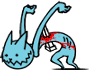
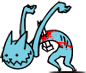
zombie

diff --git a/src/Cat.cpp b/src/Cat.cpp
@@ -306,8 +306,12 @@ void Cat::LoadResource() {
         m_Anime = CatAnime::Tricycle();
         break;
 
-    case CatType::NINJA:
+    case CatType::NINJA_CAT:
         m_Anime = CatAnime::Ninja();
+        break;
+
+    case CatType::ZOMBIE_CAT:
+        m_Anime = CatAnime::Zombie();
         break;
 
     default:
@@ -963,7 +967,7 @@ void CatAnimeResource::Init() {
     }
 
     {
-        auto &ninja = s_anime[static_cast<size_t>(CatType::NINJA)];
+        auto &ninja = s_anime[static_cast<size_t>(CatType::NINJA_CAT)];
 
         ninja.idle = std::make_unique<SharedRc::Animation>(
             std::initializer_list<std::string>{
@@ -994,6 +998,47 @@ void CatAnimeResource::Init() {
         ninja.knockback = std::make_unique<SharedRc::Animation>(
             std::initializer_list<std::string>{
                 RESOURCE_DIR "/cats/018/Animation/hitback.png"});
+    }
+
+    {
+        auto &zombie = s_anime[static_cast<size_t>(CatType::ZOMBIE_CAT)];
+
+        zombie.idle = std::make_unique<SharedRc::Animation>(
+            std::initializer_list<std::string>{
+                RESOURCE_DIR "/cats/019/Animation/idle.png",
+            });
+
+        zombie.walk = std::make_unique<SharedRc::Animation>(
+            std::initializer_list<std::string>{
+                RESOURCE_DIR "/cats/019/Animation/walk0.png",
+                RESOURCE_DIR "/cats/019/Animation/walk1.png",
+                RESOURCE_DIR "/cats/019/Animation/walk2.png",
+                RESOURCE_DIR "/cats/019/Animation/walk3.png",
+                RESOURCE_DIR "/cats/019/Animation/walk4.png",
+                RESOURCE_DIR "/cats/019/Animation/walk5.png",
+                RESOURCE_DIR "/cats/019/Animation/walk6.png",
+                RESOURCE_DIR "/cats/019/Animation/walk7.png",
+                RESOURCE_DIR "/cats/019/Animation/walk8.png",
+                RESOURCE_DIR "/cats/019/Animation/walk9.png",
+                RESOURCE_DIR "/cats/019/Animation/walk10.png"});
+
+        zombie.attack = std::make_unique<SharedRc::Animation>(
+            std::initializer_list<std::string>{
+                RESOURCE_DIR "/cats/019/Animation/attack0.png",
+                RESOURCE_DIR "/cats/019/Animation/attack1.png",
+                RESOURCE_DIR "/cats/019/Animation/attack2.png",
+                RESOURCE_DIR "/cats/019/Animation/attack3.png",
+                RESOURCE_DIR "/cats/019/Animation/attack4.png",
+                RESOURCE_DIR "/cats/019/Animation/attack5.png",
+                RESOURCE_DIR "/cats/019/Animation/attack6.png",
+                RESOURCE_DIR "/cats/019/Animation/attack7.png",
+                RESOURCE_DIR "/cats/019/Animation/attack8.png",
+                RESOURCE_DIR "/cats/019/Animation/attack8.png" // for padding
+            });
+
+        zombie.knockback = std::make_unique<SharedRc::Animation>(
+            std::initializer_list<std::string>{
+                RESOURCE_DIR "/cats/019/Animation/hitback.png"});
     }
 }
 

diff --git a/include/Cat.hpp b/include/Cat.hpp
@@ -27,7 +27,8 @@ enum class CatType : size_t {
     PANTIES_CAT,
     MONEKO,
     TRICYCLE_CAT,
-    NINJA,
+    NINJA_CAT,
+    ZOMBIE_CAT,
     CAT_TYPE_COUNT
 };
 
@@ -590,6 +591,30 @@ namespace BaseCatStats {
         return stats;
     }();
 
+    inline EntityStats ZombieCat = []() {
+        EntityStats stats;
+        stats.health = 1750;
+        stats.damage = 500;
+        stats.range = 140;
+        stats.kb = 3;
+        stats.speed = 48;
+        stats.single_target = true;
+        stats.atk_prep_time = 0.53;
+        stats.atk_cool_down = 1.44;
+        stats.recharge_time = 4530;
+        stats.cost = 1125;
+        stats.det_box = {-10, 140};
+        stats.hit_box = {-10, 140};
+        stats.attr = std::nullopt;
+        stats.base_level = 1;
+        stats.health_diff = 350;
+        stats.damage_diff = 100;
+#ifdef ENABLE_BATTLE_LOG
+        stats.name = "ZombieCat";
+#endif
+        return stats;
+    }();
+
     inline const std::array<EntityStats,
                             static_cast<size_t>(CatType::CAT_TYPE_COUNT)>
         Stats = {BaseCatStats::CatTower,       BaseCatStats::Cat,
@@ -601,7 +626,8 @@ namespace BaseCatStats {
                  BaseCatStats::MrCat,          BaseCatStats::BondageCat,
                  BaseCatStats::DomCat,         BaseCatStats::CatInBox,
                  BaseCatStats::PantiesCat,     BaseCatStats::Moneko,
-                 BaseCatStats::TricycleCat,    BaseCatStats::NinjaCat};
+                 BaseCatStats::TricycleCat,    BaseCatStats::NinjaCat,
+                 BaseCatStats::ZombieCat};
 
 } // BaseCatStats
 //-----------------------------------------------------------------------------
@@ -833,12 +859,24 @@ namespace CatAnime {
     }
 
     inline Cat::Animation Ninja() {
-        auto cycle = CatAnimeResource::Get(CatType::NINJA);
+        auto cycle = CatAnimeResource::Get(CatType::NINJA_CAT);
         
         cycle.walk->SetInterval(100); // ms
         cycle.walk->SetLooping(true);
 
         cycle.attack->SetInterval(BaseCatStats::NinjaCat.atk_prep_time * 1000.0 / 3.0);
+        cycle.attack->SetLooping(false);
+        
+        return cycle;
+    }
+
+    inline Cat::Animation Zombie() {
+        auto cycle = CatAnimeResource::Get(CatType::ZOMBIE_CAT);
+        
+        cycle.walk->SetInterval(100); // ms
+        cycle.walk->SetLooping(true);
+
+        cycle.attack->SetInterval(BaseCatStats::ZombieCat.atk_prep_time * 1000.0 / 7.0);
         cycle.attack->SetLooping(false);
         
         return cycle;
